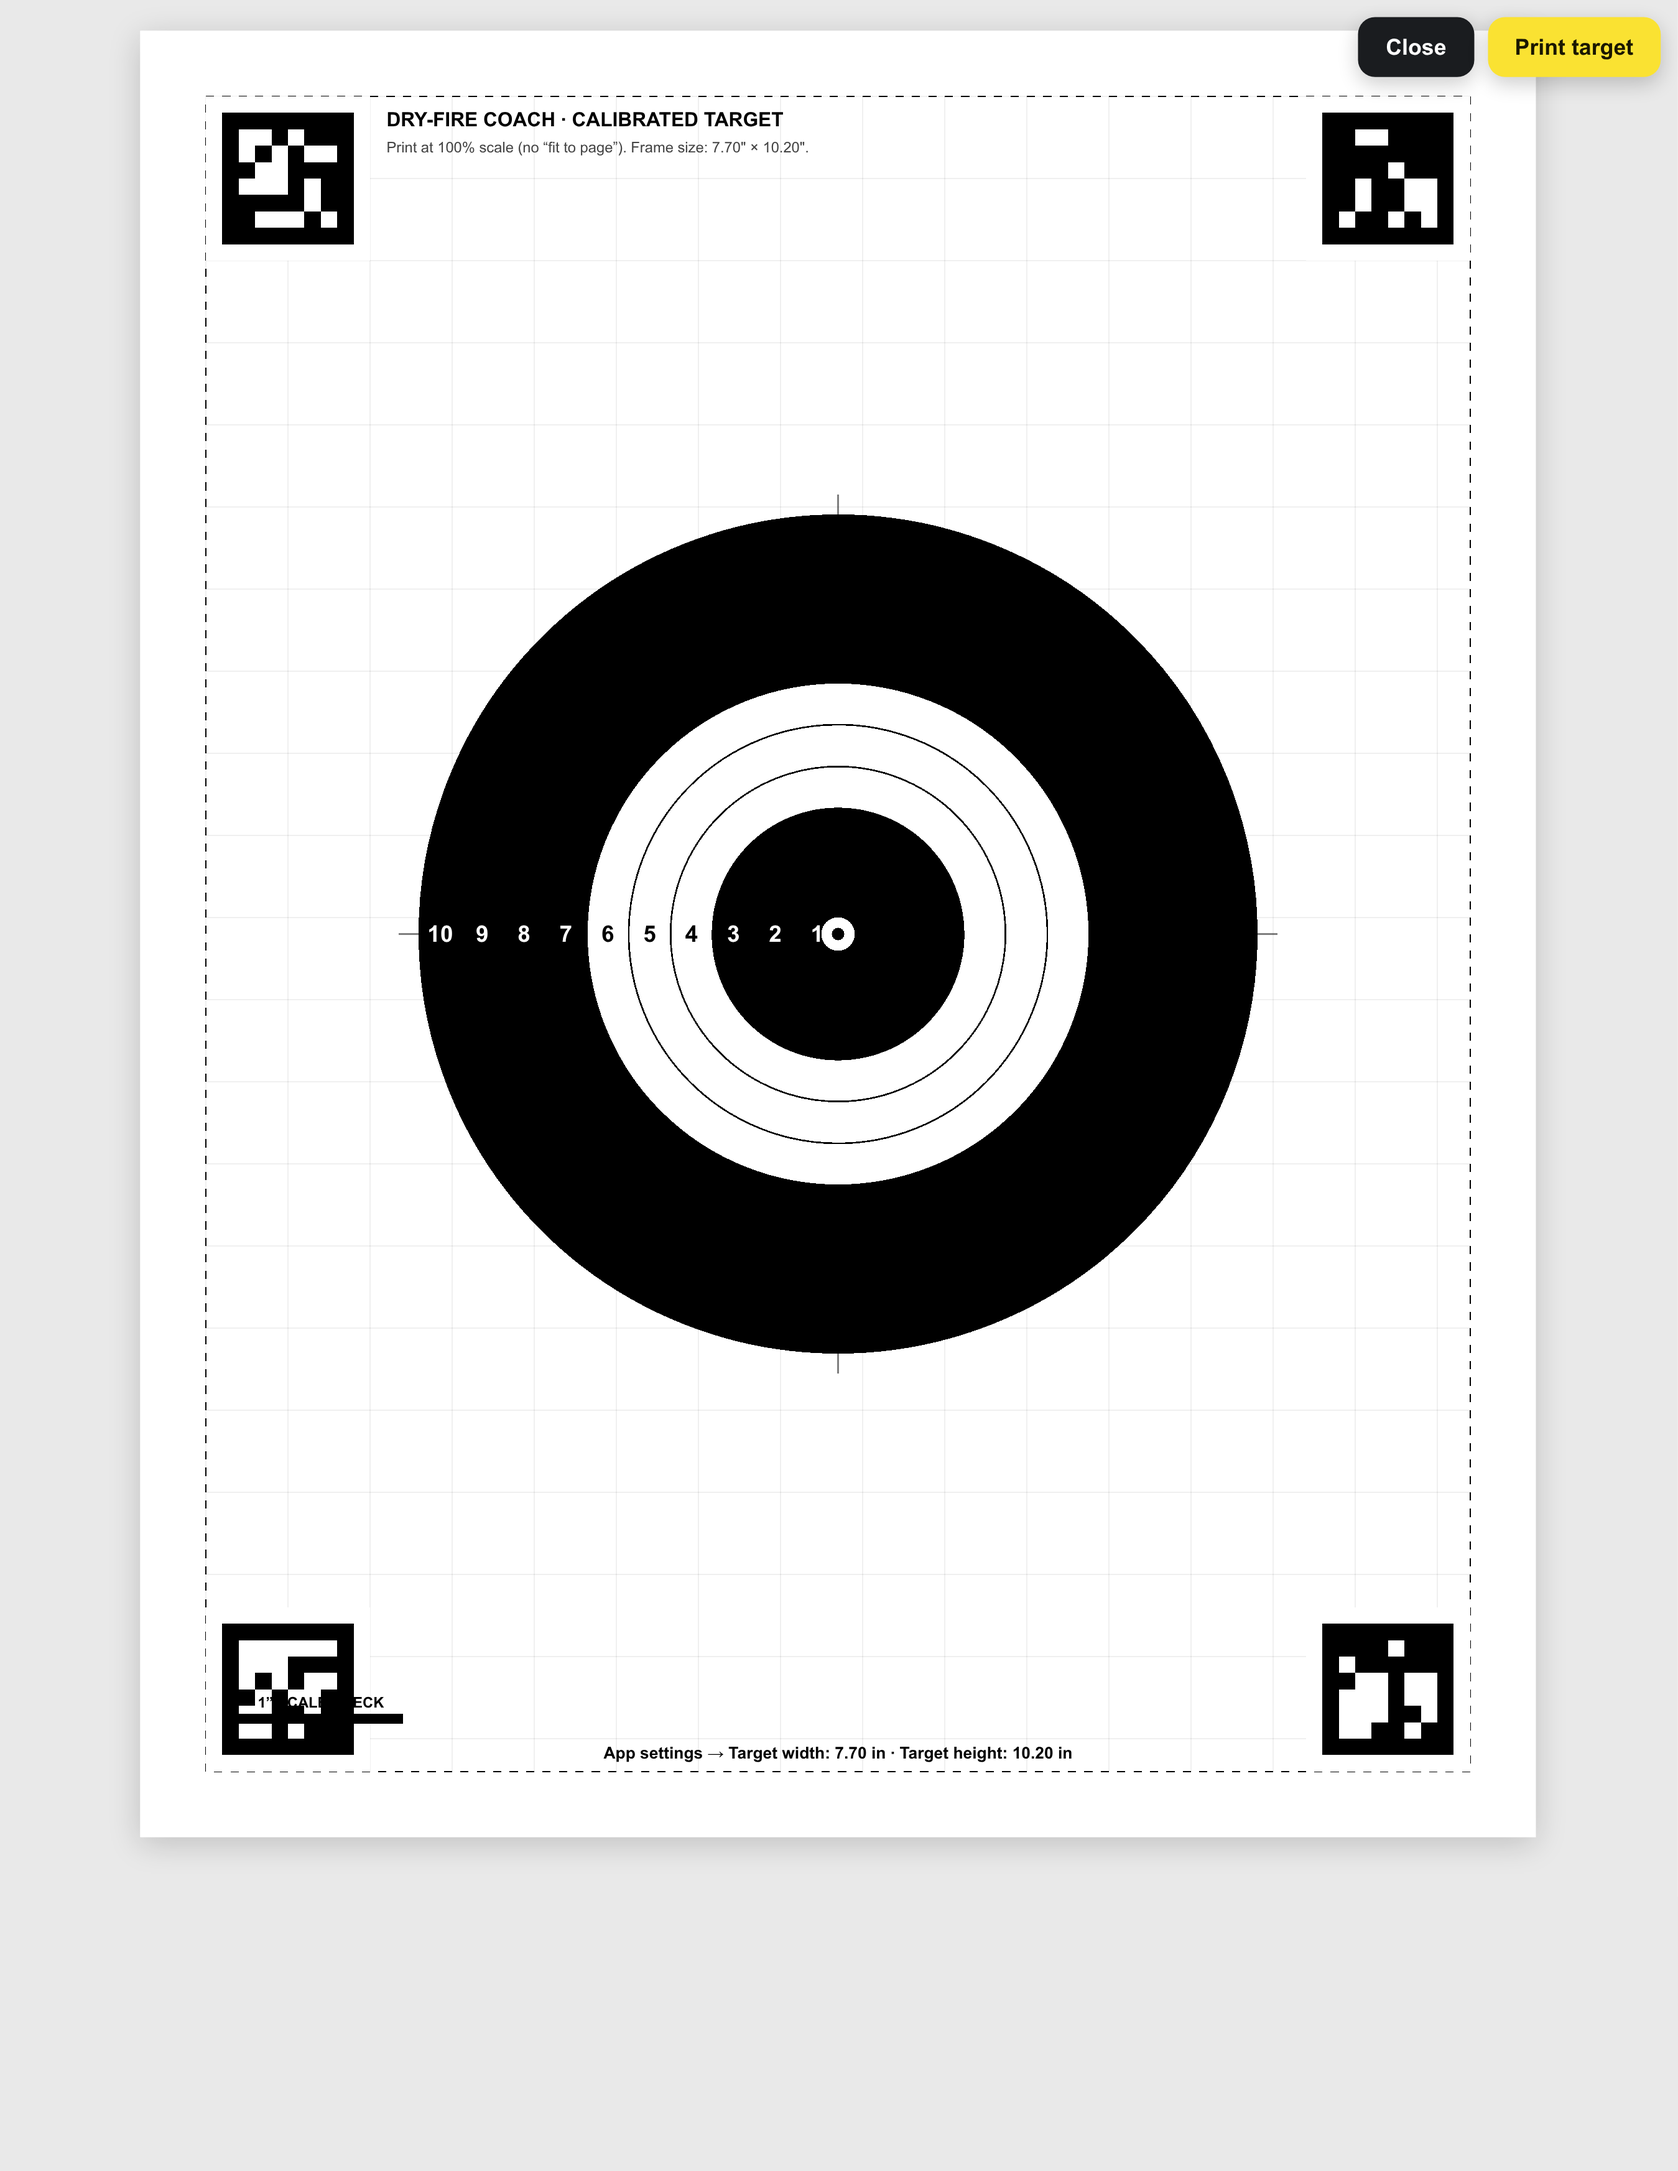
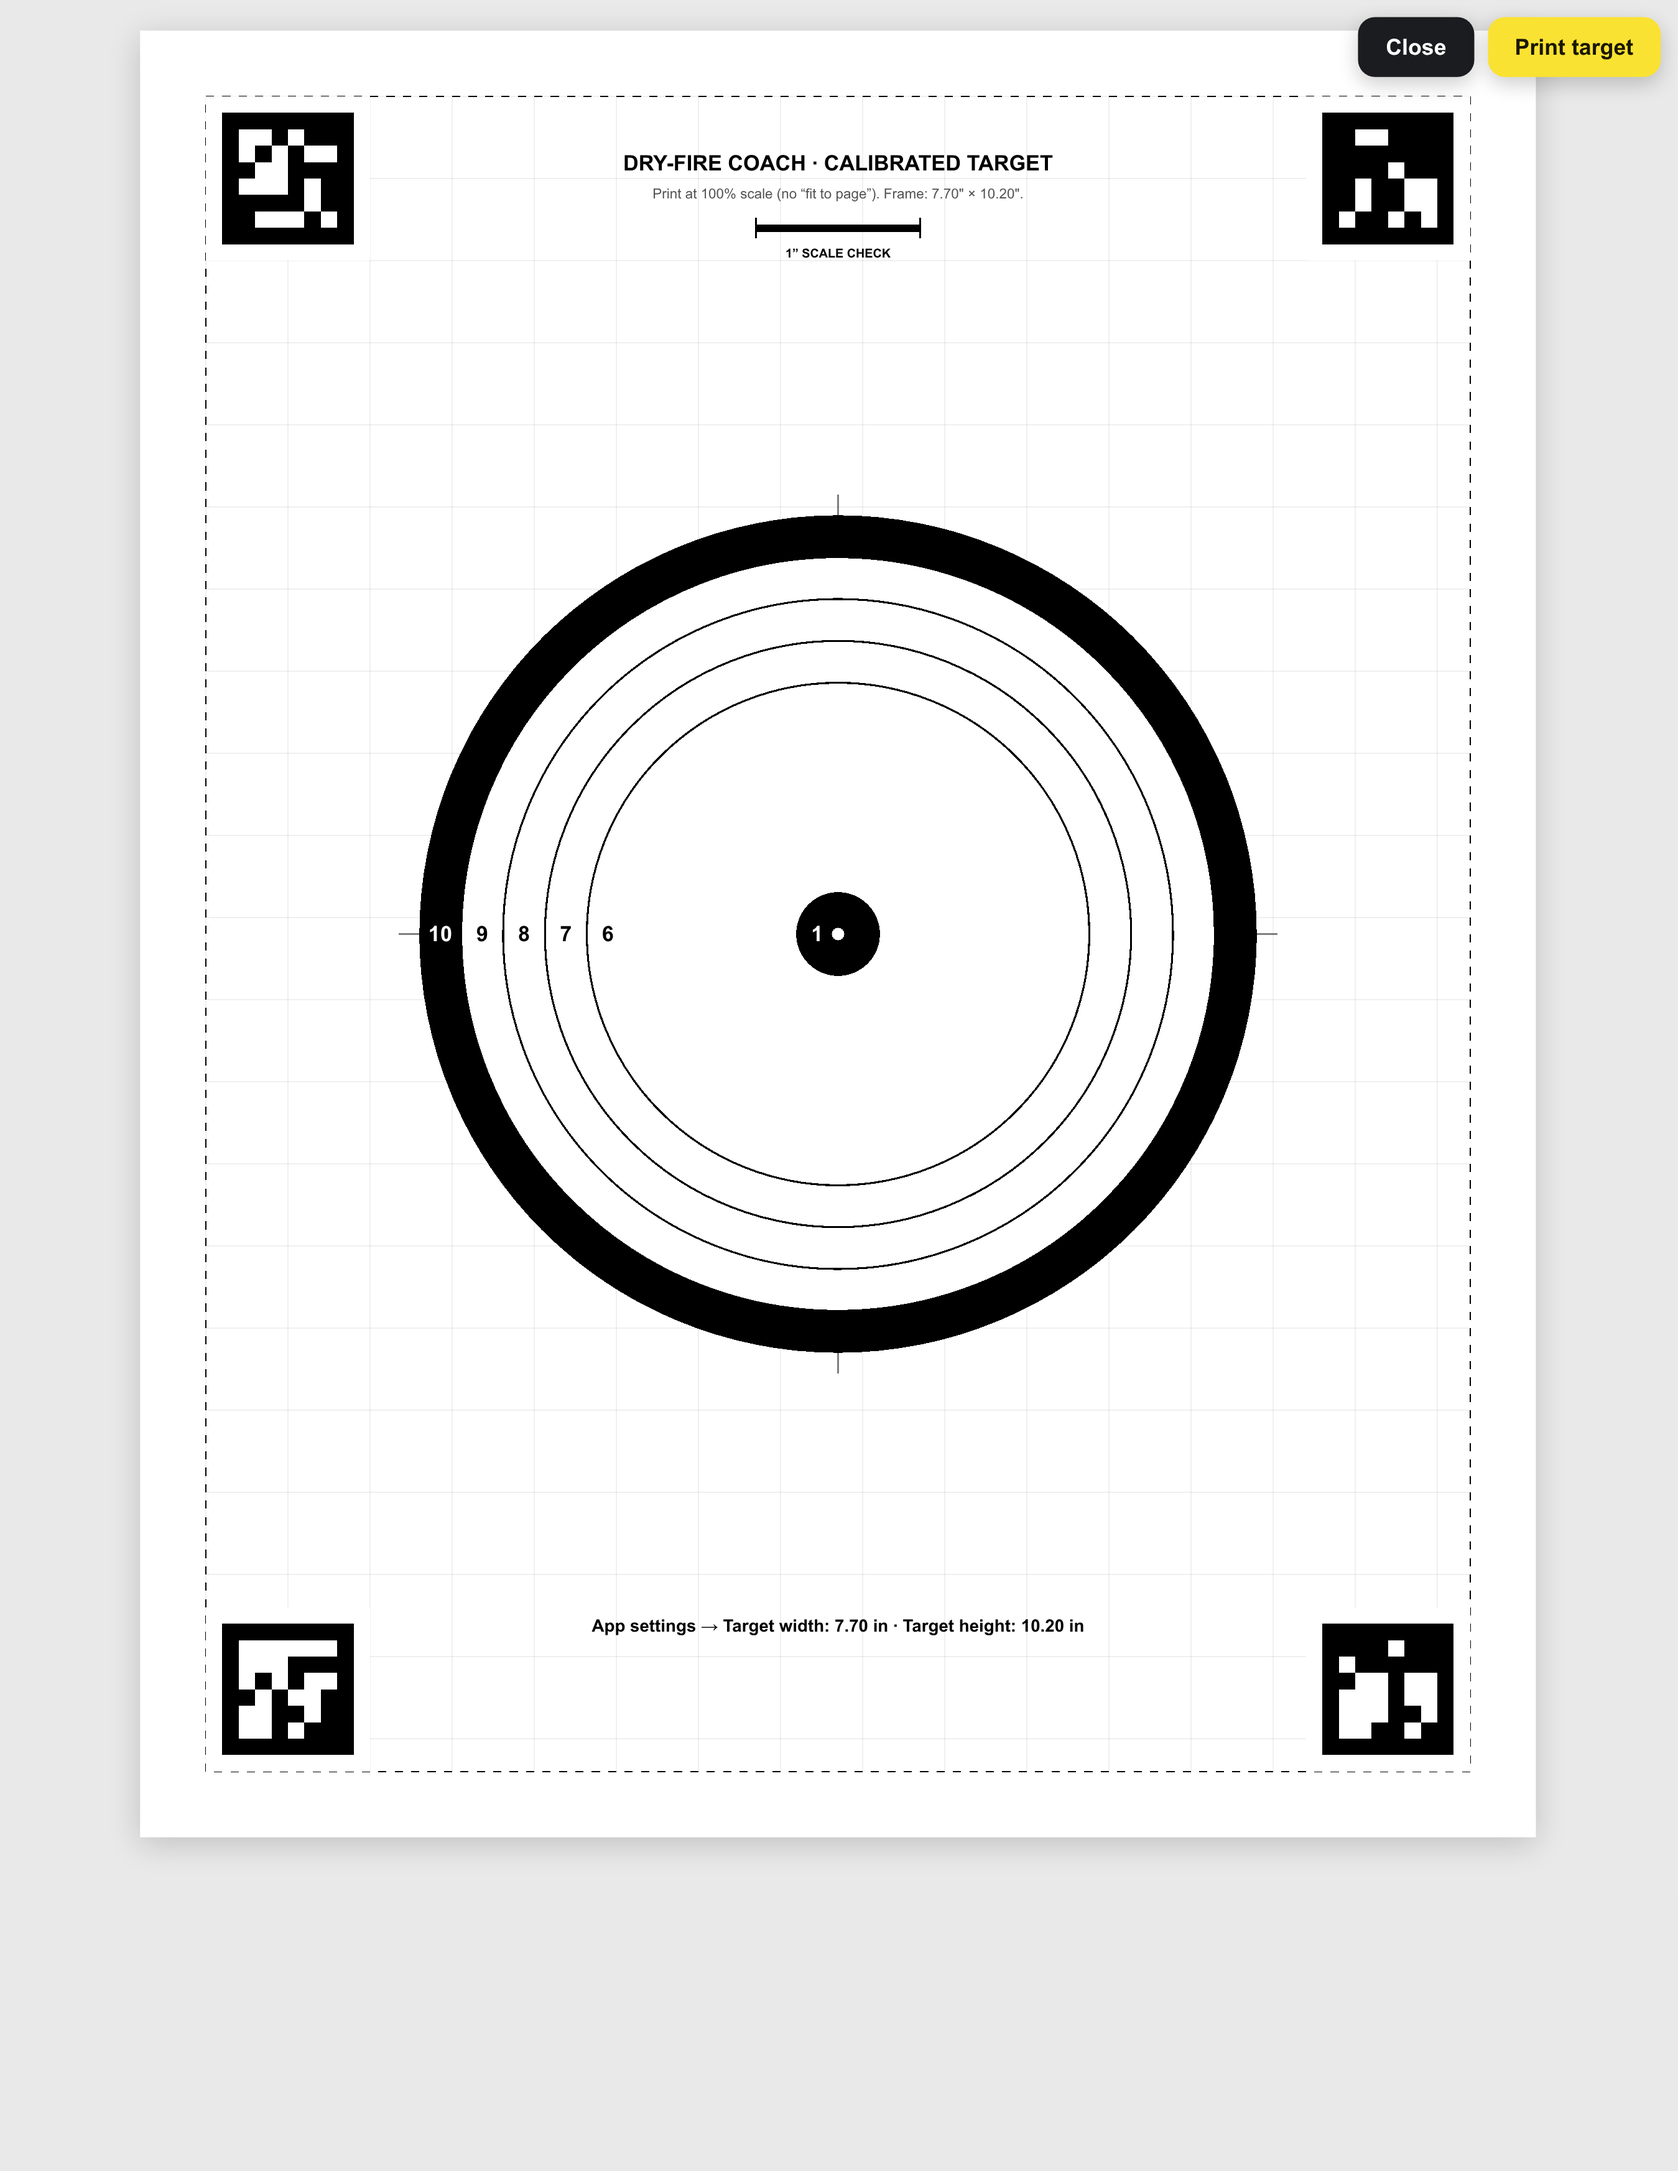
fix: classic outlined bullseye with proper ring numbering 1-10

diff --git a/index.html b/index.html
@@ -1075,41 +1075,32 @@ function openMarkerPrintPage(){
     arucoSVG(2, FRAME_X + FRAME_W - MARKER,    FRAME_Y + FRAME_H - MARKER,    MARKER) +
     arucoSVG(3, FRAME_X,                       FRAME_Y + FRAME_H - MARKER,    MARKER);
 
-  // --- Bullseye rings (classic NRA-style: black outer half, white inner half, black 10-ring) ---
-  // Ring i radius = RING_OUTER * i/RINGS.  i=1 is the outermost ring; i=10 is the innermost (X-ring).
-  // Layer order (back to front): big black disk (rings 1-5), white disk for rings 6-9 with black outlines, solid black 10-ring.
+  // --- Bullseye (white background, concentric black ring outlines, solid black 10-ring) ---
+  // Convention: ring 1 = outermost band, ring 10 = innermost (X). Band N occupies
+  // radii from (N-1)/10 * RING_OUTER to N/10 * RING_OUTER (inverted: band 1 = outer, band 10 = inner).
+  // We treat band i visually as the annulus between rOuter=RING_OUTER*(11-i)/10 and rInner=RING_OUTER*(10-i)/10.
   let rings = '';
-  const blackOuterR = RING_OUTER * (5/RINGS);     // covers rings 1..5
-  const whiteInnerR = RING_OUTER * (9/RINGS);     // covers rings 6..9 (inner white aiming area)
-  const tenRingR    = RING_OUTER * (1/RINGS);     // solid black center
-
-  // 1) White background under everything (so faint grid below shows through outside the bullseye)
-  // 2) Big black disk for rings 1-5 with thin white ring separators
-  rings += `<circle cx="${CX}" cy="${CY}" r="${RING_OUTER}" fill="#000"/>`;
-  for (let i=1; i<=5; i++){
-    const r = RING_OUTER * (i/RINGS);
-    rings += `<circle cx="${CX}" cy="${CY}" r="${r}" fill="none" stroke="#fff" stroke-width="0.012"/>`;
-  }
-  // 3) White inner aiming area (rings 6-9) on top of black
-  rings += `<circle cx="${CX}" cy="${CY}" r="${whiteInnerR}" fill="#fff" stroke="#000" stroke-width="0.012"/>`;
-  for (let i=6; i<=9; i++){
-    const r = RING_OUTER * (i/RINGS);
+  // White disk + bold outer black ring (the “bullseye boundary”)
+  rings += `<circle cx="${CX}" cy="${CY}" r="${RING_OUTER}" fill="#fff" stroke="#000" stroke-width="0.025"/>`;
+  // Concentric ring outlines (rings 2..9 as thin black outlines on white)
+  for (let i=2; i<=9; i++){
+    const r = RING_OUTER * (11-i)/10;
     rings += `<circle cx="${CX}" cy="${CY}" r="${r}" fill="none" stroke="#000" stroke-width="0.012"/>`;
   }
-  // 4) Solid black 10-ring (center)
-  rings += `<circle cx="${CX}" cy="${CY}" r="${tenRingR}" fill="#000"/>`;
-  // 5) Tiny white aim dot in dead center
+  // Solid black 10-ring (center)
+  const tenR = RING_OUTER * (1/10);
+  rings += `<circle cx="${CX}" cy="${CY}" r="${tenR}" fill="#000"/>`;
+  // Tiny white aim dot dead center
   rings += `<circle cx="${CX}" cy="${CY}" r="${RING_OUTER*0.015}" fill="#fff"/>`;
 
-  // Ring numbers (1–10) along horizontal axis on the LEFT half.
-  // Place each number between ring i and ring i+1 (so it's inside its own ring's band).
+  // Ring numbers (1–10) along horizontal axis on the LEFT half, placed mid-band.
+  // Band i lies between r=(10-i)/10 (inner) and r=(11-i)/10 (outer). Midpoint r = (21-2i)/20 * RING_OUTER.
   let numbers = '';
   for (let i=1; i<=RINGS; i++){
-    const r = RING_OUTER * (i/RINGS);
-    const rNext = RING_OUTER * ((i-1)/RINGS);
-    const tx = CX - (r + rNext)/2;  // midpoint of the band, on left side
-    // i 1-5 sit on black bg → white text; i 6-9 sit on white bg → black text; i=10 is on black center → white
-    const fontColor = (i<=5 || i===10) ? '#fff' : '#000';
+    const rMid = RING_OUTER * (21 - 2*i) / 20;
+    const tx = CX - rMid;
+    // 10 sits on solid black center -> white text. 1-9 sit on white bg -> black text.
+    const fontColor = (i === 10) ? '#fff' : '#000';
     const fontSize = 0.13;
     numbers += `<text x="${tx}" y="${CY + fontSize*0.35}" font-size="${fontSize}" font-family="Arial, sans-serif" font-weight="700" text-anchor="middle" fill="${fontColor}">${i}</text>`;
   }
